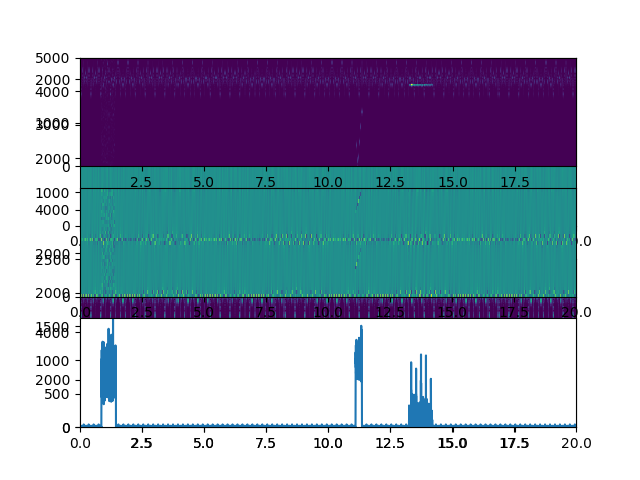
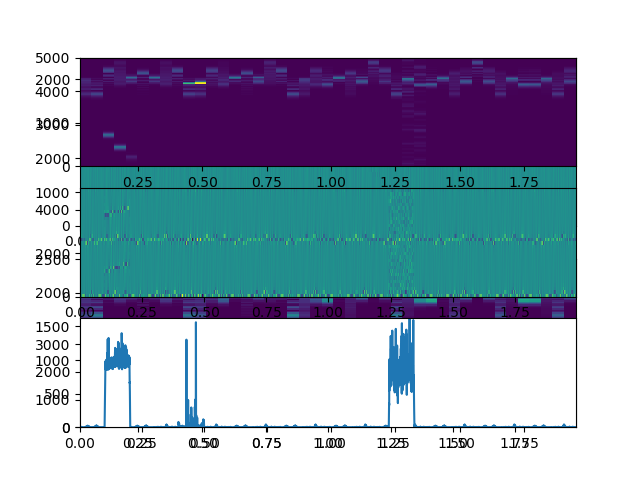
results updates

diff --git a/model/model_fft.py b/model/model_fft.py
@@ -8,67 +8,53 @@ import matplotlib.pyplot as plt
 
 from tensorflow.examples.tutorials.mnist import input_data
 
-def noise_band(n_l, amp, fs=5e3, N=1e4):
+def noise_band(n_l, amp, siz=0.05, fs=5e3, N=1e4):
         time = np.arange(N) / float(fs)
         noise_power = n_l * amp * fs / 2
         noise = np.random.normal(scale=np.sqrt(noise_power), size=time.shape)
         i = amp*np.cos(noise)
         q = amp*np.sin(noise)
+        
         s1 = np.random.uniform(0,1,1)
-        s2 = np.random.uniform(0,1,1)
-        while np.abs(s2 - s1) > 0.05:
-            s2 = np.random.rand() 
+        while (s1 + siz) > 1.0:
+            s1 = np.random.rand() 
+        n_start = int(len(time)*s1)
+        n_end = int(len(time)*(s1+siz))
 
-        if s1 < s2:
-            n_start = int(len(time)*s1)
-            n_end = int(len(time)*s2)
-        else:
-            n_start = int(len(time)*s2)
-            n_end = int(len(time)*s1)
         i[:n_start] *= 0
         i[n_end:] *= 0
         q[:n_start] *= 0
         q[n_end:] *= 0
-        return (i, q)
+        return (i, q, n_start, n_end)
 
-def noise_complex_sine(n_l, amp, fs=5e3, N=1e4):
+def noise_complex_sine(n_l, amp, siz=0.05, fs=5e3, N=1e4):
         time = np.arange(N) / float(fs)
         fs = np.random.uniform(fs/2, fs*2, 1) 
-        mod = n_l*amp*np.exp(2j*np.pi*fs*time)
-        i = np.real(mod)
-        q = np.imag(mod)
+        mod = amp*np.exp(2j*np.pi*fs*time)
+        i = n_l*np.real(mod)
+        q = n_l*np.imag(mod)
+        
         s1 = np.random.uniform(0,1,1)
-        s2 = np.random.uniform(0,1,1)
-        while np.abs(s2 - s1) > 0.05:
-            s2 = np.random.uniform(0,1,1)
-
-        if s1 < s2:
-            n_start = int(len(time)*s1)
-            n_end = int(len(time)*s2)
-        else:
-            n_start = int(len(time)*s2)
-            n_end = int(len(time)*s1)
+        while (s1 + siz) > 1.0:
+            s1 = np.random.rand() 
+        n_start = int(len(time)*s1)
+        n_end = int(len(time)*(s1+siz))
 
         i[:n_start] *= 0
         i[n_end:] *= 0
         q[:n_start] *= 0
         q[n_end:] *= 0
-        return (i, q)
+        return (i, q, n_start, n_end)
 
-def noise_chirp(n_l, amp, fs=5e3, N=1e4):
+def noise_chirp(n_l, amp, siz=0.05, fs=5e3, N=1e4):
         time = np.arange(N) / float(fs)
+        
         s1 = np.random.uniform(0,1,1)
-        s2 = np.random.rand() 
-        while np.abs(s2 - s1) > 0.05:
-            s2 = np.random.rand() 
-
-        if s1 < s2:
-            n_start = int(len(time)*s1)
-            n_end = int(len(time)*s2)
-        else:
-            n_start = int(len(time)*s2)
-            n_end = int(len(time)*s1)
-
+        while (s1 + siz) > 1.0:
+            s1 = np.random.rand() 
+        n_start = int(len(time)*s1)
+        n_end = int(len(time)*(s1+siz))
+        
         length = int(len(time[n_start:n_end]))
         fs1 = np.random.uniform(fs/2, fs*2, 1) 
         fs2 = np.random.uniform(fs/2, fs*2, 1) 
@@ -84,8 +70,19 @@ def noise_chirp(n_l, amp, fs=5e3, N=1e4):
         i[n_end:] *= 0
         q[:n_start] *= 0
         q[n_end:] *= 0
-        return (i, q)
+        return (i, q, n_start, n_end)
 
+def make_fft_windows(sig, window_size):
+        sig_window = make_data(sig, window_size)
+
+        data = []
+        for sig_w in sig_window:
+            fft_res = np.fft.fft(sig_w)
+            fft_r = np.real(fft_res)
+            fft_i = np.imag(fft_res)
+            data.append(np.concatenate((fft_r, fft_i)))
+
+        return np.array(data)
 
 
 def plot_spectrum(t, f, p_pred, n_dat, l2norm, filename):
@@ -202,7 +199,7 @@ Layer_2 = 16
 Layer_3 = 8
 
 fs = 5e3
-N = 1e5
+N = 1e4
 amp = 2 * np.sqrt(2)
 
 i_s, q_s = carrier(amp, fs, N)
@@ -287,7 +284,7 @@ with tf.Session() as sess:
         step_rate = []
 
         # Standard Denoising using the uncorrupted signals in the loss functions
-        for i in range(30000):
+        for i in range(20000):
                 if i % 200 == 0:
                         p_train_val = sess.run([loss], feed_dict={x: x_train, y: y_train})
                         print('step: %d, loss: %.8f' % (i, p_train_val[0]))
@@ -309,6 +306,78 @@ with tf.Session() as sess:
         print_fft_w(int(Layer_1/2))
 
         p_pred = sess.run([pred], feed_dict={x: data})[0]
+        baseline = np.mean(np.sum(np.square(p_pred - data), 1))
+        
+        t = np.arange(N) / float(fs)
+        si, sq = carrier(amp, fs, N)
+
+        noise_level = np.linspace(-20, 20, 20)
+        
+        c_snr = np.zeros((20, 5))
+        c_l2n = np.zeros((20, 5))
+        for j in range(5):
+            for i in range(20):
+                snr = 0.0
+                while((np.abs(snr - noise_level[i]) > 1) or np.isnan(snr)):
+                    noise = np.random.uniform(0.00001, 10, 1) + 0.0000001
+                    i_n, q_n, n_start, n_end = noise_complex_sine(noise, amp, 0.2, fs, N)
+                    i_s = si + i_n
+                    q_s = sq + q_n
+                    
+                    s = i_s*np.sin(2*np.pi*2e3*t) + q_s*np.cos(2*np.pi*2e3*t) 
+                    s_n = i_n*np.sin(2*np.pi*2e3*t) + q_n*np.cos(2*np.pi*2e3*t) 
+                    snr = calc_snr(s_n[n_start:n_end], s[n_start:n_end])
+
+                sig = i_s + q_s*1j
+                data = make_fft_windows(sig, int(Layer_1/2))
+                p_pred = sess.run([pred], feed_dict={x: data})[0]
+                l2norm = np.sum(np.square(p_pred - data),1)
+                c_snr[i,j] = snr
+                c_l2n[i,j] = np.mean(l2norm[n_start:n_end])/baseline
+        
+        ch_snr = np.zeros((20, 5))
+        ch_l2n = np.zeros((20, 5))
+        for j in range(5):
+            for i in range(20):
+                snr = 0.0
+                while((np.abs(snr - noise_level[i]) > 1) or np.isnan(snr)):
+                    noise = np.random.uniform(0.00001, 10, 1) + 0.0000001
+                    i_n, q_n, n_start, n_end = noise_chirp(noise, amp, 0.2, fs, N)
+                    i_s = si + i_n
+                    q_s = sq + q_n
+                    
+                    s = i_s*np.sin(2*np.pi*2e3*t) + q_s*np.cos(2*np.pi*2e3*t) 
+                    s_n = i_n*np.sin(2*np.pi*2e3*t) + q_n*np.cos(2*np.pi*2e3*t) 
+                    snr = calc_snr(s_n[n_start:n_end], s[n_start:n_end])
+
+                print(snr)
+                sig = i_s + q_s*1j
+                data = make_fft_windows(sig, int(Layer_1/2))
+                p_pred = sess.run([pred], feed_dict={x: data})[0]
+                l2norm = np.sum(np.square(p_pred - data),1)
+                ch_snr[i,j] = snr
+                ch_l2n[i,j] = np.mean(l2norm[n_start:n_end])/baseline
+        
+
+        c_snr = np.mean(c_snr, axis=1)
+        c_l2n = np.mean(c_l2n, axis=1)
+        ch_snr = np.mean(ch_snr, axis=1)
+        ch_l2n = np.mean(ch_l2n, axis=1)
+        print(c_snr)
+        print(c_l2n)
+        print(ch_snr)
+        print(ch_l2n)
+        
+        plt.semilogx(c_l2n, c_snr, label="Complex Sinusoid")
+        plt.semilogx(ch_l2n, ch_snr, label="Chirp Event")
+        plt.legend(bbox_to_anchor=(0., 1.02, 1., .102), loc=3,
+                           ncol=2, mode="expand", borderaxespad=0.)
+        plt.ylim((-20, 20))
+        plt.margins(x=0,y=0)
+        plt.xlabel("Number of Times larger than the Basline")
+        plt.ylabel("SNR(dB)")
+        plt.savefig("snr_noise.png")
+        plt.show()
       
         diff = int(Layer_1/2)
         i_s = i_s[:-diff]
@@ -338,31 +407,22 @@ with tf.Session() as sess:
         #show()
         
         i_s, q_s = carrier(amp, fs, N)
-        i_n, q_n = noise_complex_sine(1, amp, fs, N)
+        i_n, q_n, _, _ = noise_complex_sine(1, amp, 0.05, fs, N)
         i_s = i_s + i_n
         q_s = q_s + q_n
         
-        i_n, q_n = noise_chirp(1, amp, fs, N)
+        i_n, q_n, _, _ = noise_chirp(1, amp, 0.05, fs, N)
         i_s = i_s + i_n
         q_s = q_s + q_n
         
-        i_n, q_n = noise_band(1, amp, fs, N)
+        i_n, q_n, _, _ = noise_band(1, amp, 0.05, fs, N)
         i_s = i_s + i_n
         q_s = q_s + q_n
 
 
         sig = i_s + q_s*1j
 
-        sig_window = make_data(sig, Layer_1/2)
-
-        data = []
-        for sig_w in sig_window:
-            fft_res = np.fft.fft(sig_w)
-            fft_r = np.real(fft_res)
-            fft_i = np.imag(fft_res)
-            data.append(np.concatenate((fft_r, fft_i)))
-
-        data = np.array(data)
+        data = make_fft_windows(sig, int(Layer_1/2))
         p_pred = sess.run([pred], feed_dict={x: data})[0]
         l2norm = np.sum(np.square(p_pred - data), 1)
         
@@ -393,26 +453,17 @@ with tf.Session() as sess:
         ax4.margins(x=0,y=0)
         
         fig.savefig("noise_overview.png")
-        show()
+        #show()
 
         i_s, q_s = carrier(amp, fs, N)
-        i_n, q_n = noise_complex_sine(1, amp, fs, N)
+        i_n, q_n, _, _ = noise_complex_sine(1, amp, 0.2, fs, N)
 
         i_s = i_s + i_n
         q_s = q_s + q_n
 
         sig = i_s + q_s*1j
 
-        sig_window = make_data(sig, Layer_1/2)
-
-        data = []
-        for sig_w in sig_window:
-            fft_res = np.fft.fft(sig_w)
-            fft_r = np.real(fft_res)
-            fft_i = np.imag(fft_res)
-            data.append(np.concatenate((fft_r, fft_i)))
-
-        data = np.array(data)
+        data = make_fft_windows(sig, int(Layer_1/2))
         p_pred = sess.run([pred], feed_dict={x: data})[0]
         l2norm = np.sum(np.square(p_pred - data), 1)
         
@@ -443,26 +494,17 @@ with tf.Session() as sess:
         ax4.margins(x=0,y=0)
         
         fig.savefig("noise_complex.png")
-        show()
+        #show()
         
         i_s, q_s = carrier(amp, fs, N)
-        i_n, q_n = noise_chirp(1, amp, fs, N)
+        i_n, q_n, _, _ = noise_chirp(1, amp, 0.2, fs, N)
 
         i_s = i_s + i_n
         q_s = q_s + q_n
 
         sig = i_s + q_s*1j
 
-        sig_window = make_data(sig, Layer_1/2)
-
-        data = []
-        for sig_w in sig_window:
-            fft_res = np.fft.fft(sig_w)
-            fft_r = np.real(fft_res)
-            fft_i = np.imag(fft_res)
-            data.append(np.concatenate((fft_r, fft_i)))
-
-        data = np.array(data)
+        data = make_fft_windows(sig, int(Layer_1/2))
         p_pred = sess.run([pred], feed_dict={x: data})[0]
         l2norm = np.sum(np.square(p_pred - data), 1)
         
@@ -505,26 +547,17 @@ with tf.Session() as sess:
         ax4.margins(x=0,y=0)
         
         fig.savefig("noise_chirp.png")
-        show()
+        #show()
         
         i_s, q_s = carrier(amp, fs, N)
-        i_n, q_n = noise_band(1, amp, fs, N)
+        i_n, q_n, _, _ = noise_band(1, amp, 0.2, fs, N)
 
         i_s = i_s + i_n
         q_s = q_s + q_n
 
         sig = i_s + q_s*1j
 
-        sig_window = make_data(sig, Layer_1/2)
-
-        data = []
-        for sig_w in sig_window:
-            fft_res = np.fft.fft(sig_w)
-            fft_r = np.real(fft_res)
-            fft_i = np.imag(fft_res)
-            data.append(np.concatenate((fft_r, fft_i)))
-
-        data = np.array(data)
+        data = make_fft_windows(sig, int(Layer_1/2))
         p_pred = sess.run([pred], feed_dict={x: data})[0]
         l2norm = np.sum(np.square(p_pred - data), 1)
         
@@ -567,8 +600,9 @@ with tf.Session() as sess:
         ax4.margins(x=0,y=0)
         
         fig.savefig("noise_band.png")
-        show()
- 
+        #show()
+
+
 
         """
         noise_level = np.linspace(0.00001, 0.002, 100)
@@ -577,6 +611,7 @@ with tf.Session() as sess:
         gb_f_l2n = []
 
         for n_l in noise_level:
+            noise, n_start, n_end = noise_band(n_l, 0.001, fs, N)
             noise, n_start, n_end = noise_band(n_l, 0.001, fs, N)
             x_n = c + noise
             
@@ -668,7 +703,6 @@ with tf.Session() as sess:
             rc_f_l2n.append(np.mean(l2norm[n_start:n_end])/baseline)
 
             #print("%.3f - SNR(dB): %.2f, L2-Norm: %.4f, Baseline: %.4f" % (n_l, snr, np.mean(l2norm[n_start:n_end]), np.mean(l2norm[n_end:])))
-
         gb_f_snr = np.array(gb_f_snr)
         gb_f_l2n = np.array(gb_f_l2n)
         
